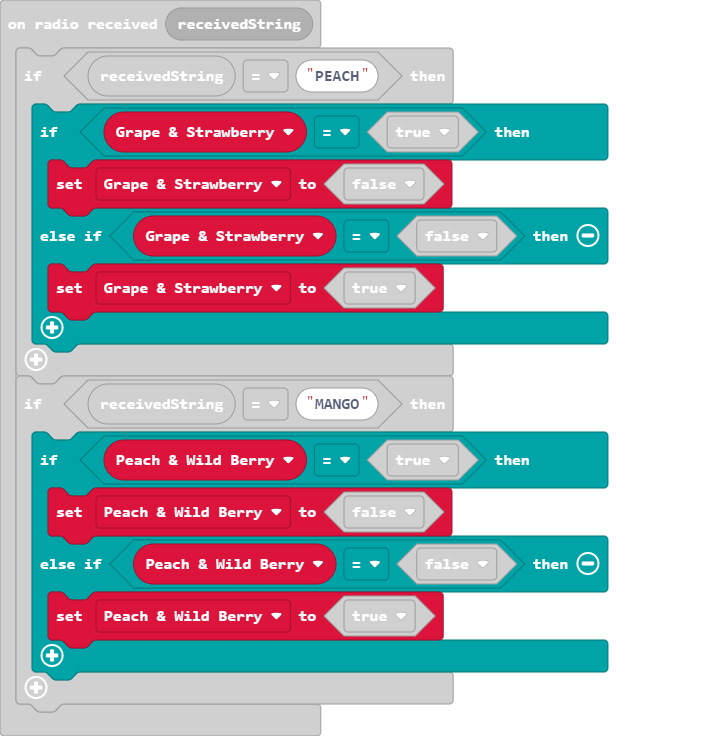
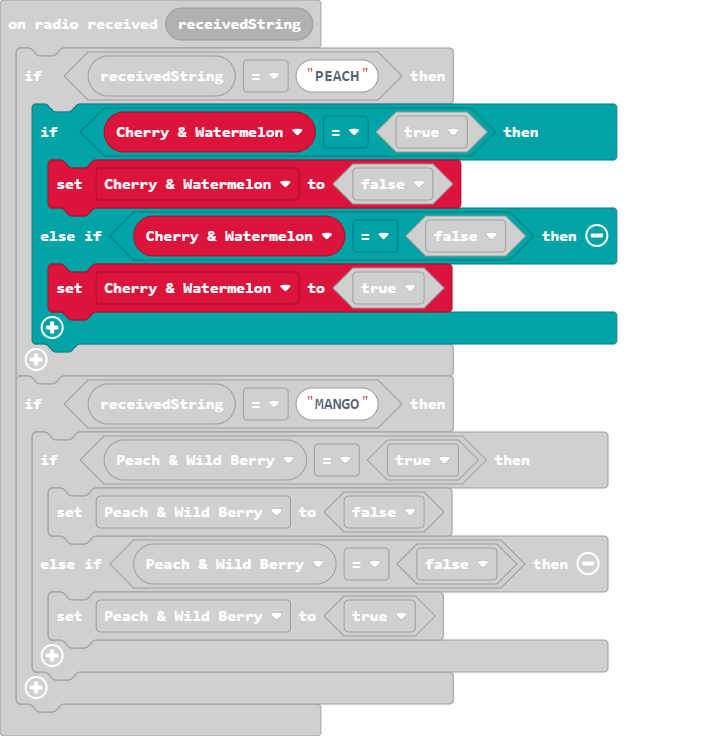
Update main.blocks, main.ts

diff --git a/main.ts b/main.ts
@@ -6,10 +6,10 @@ input.onButtonPressed(Button.A, function () {
 })
 radio.onReceivedString(function (receivedString) {
     if (receivedString == "PEACH") {
-        if (Grape__Strawberry == true) {
-            Grape__Strawberry = false
-        } else if (Grape__Strawberry == false) {
-            Grape__Strawberry = true
+        if (Cherry__Watermelon == true) {
+            Cherry__Watermelon = false
+        } else if (Cherry__Watermelon == false) {
+            Cherry__Watermelon = true
         }
     }
     if (receivedString == "MANGO") {
@@ -24,6 +24,6 @@ input.onButtonPressed(Button.B, function () {
     radio.sendString("MANGO")
 })
 let Peach__Wild_Berry = false
-let Grape__Strawberry = false
+let Cherry__Watermelon = false
 basic.showIcon(IconNames.Duck)
 radio.setGroup(69)
